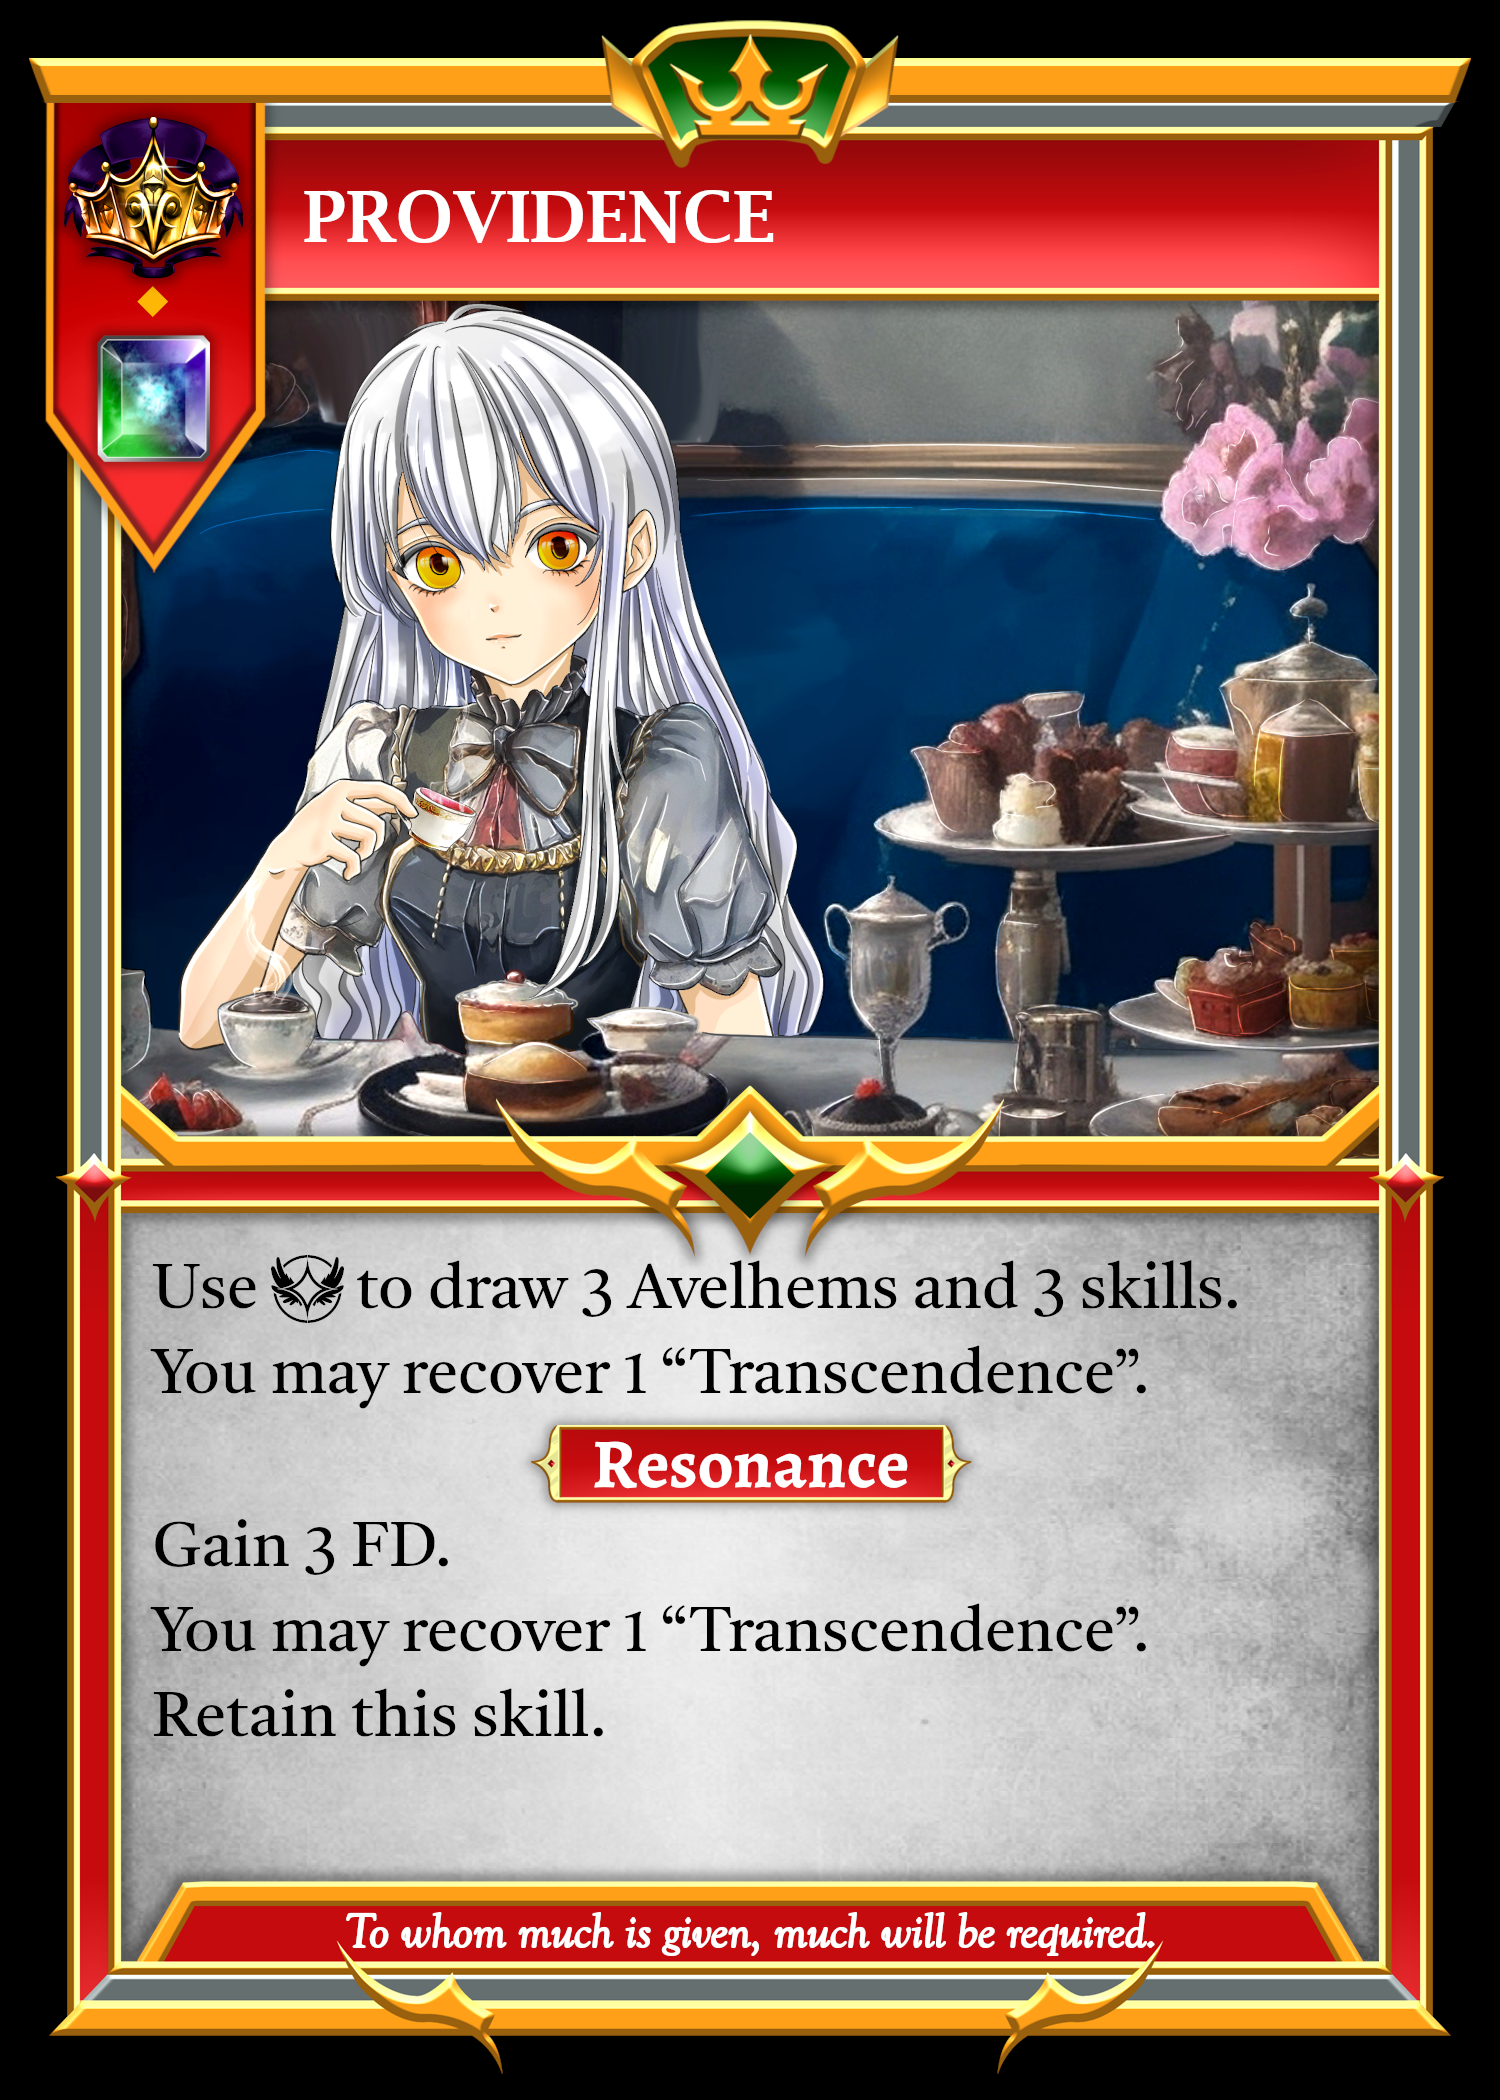
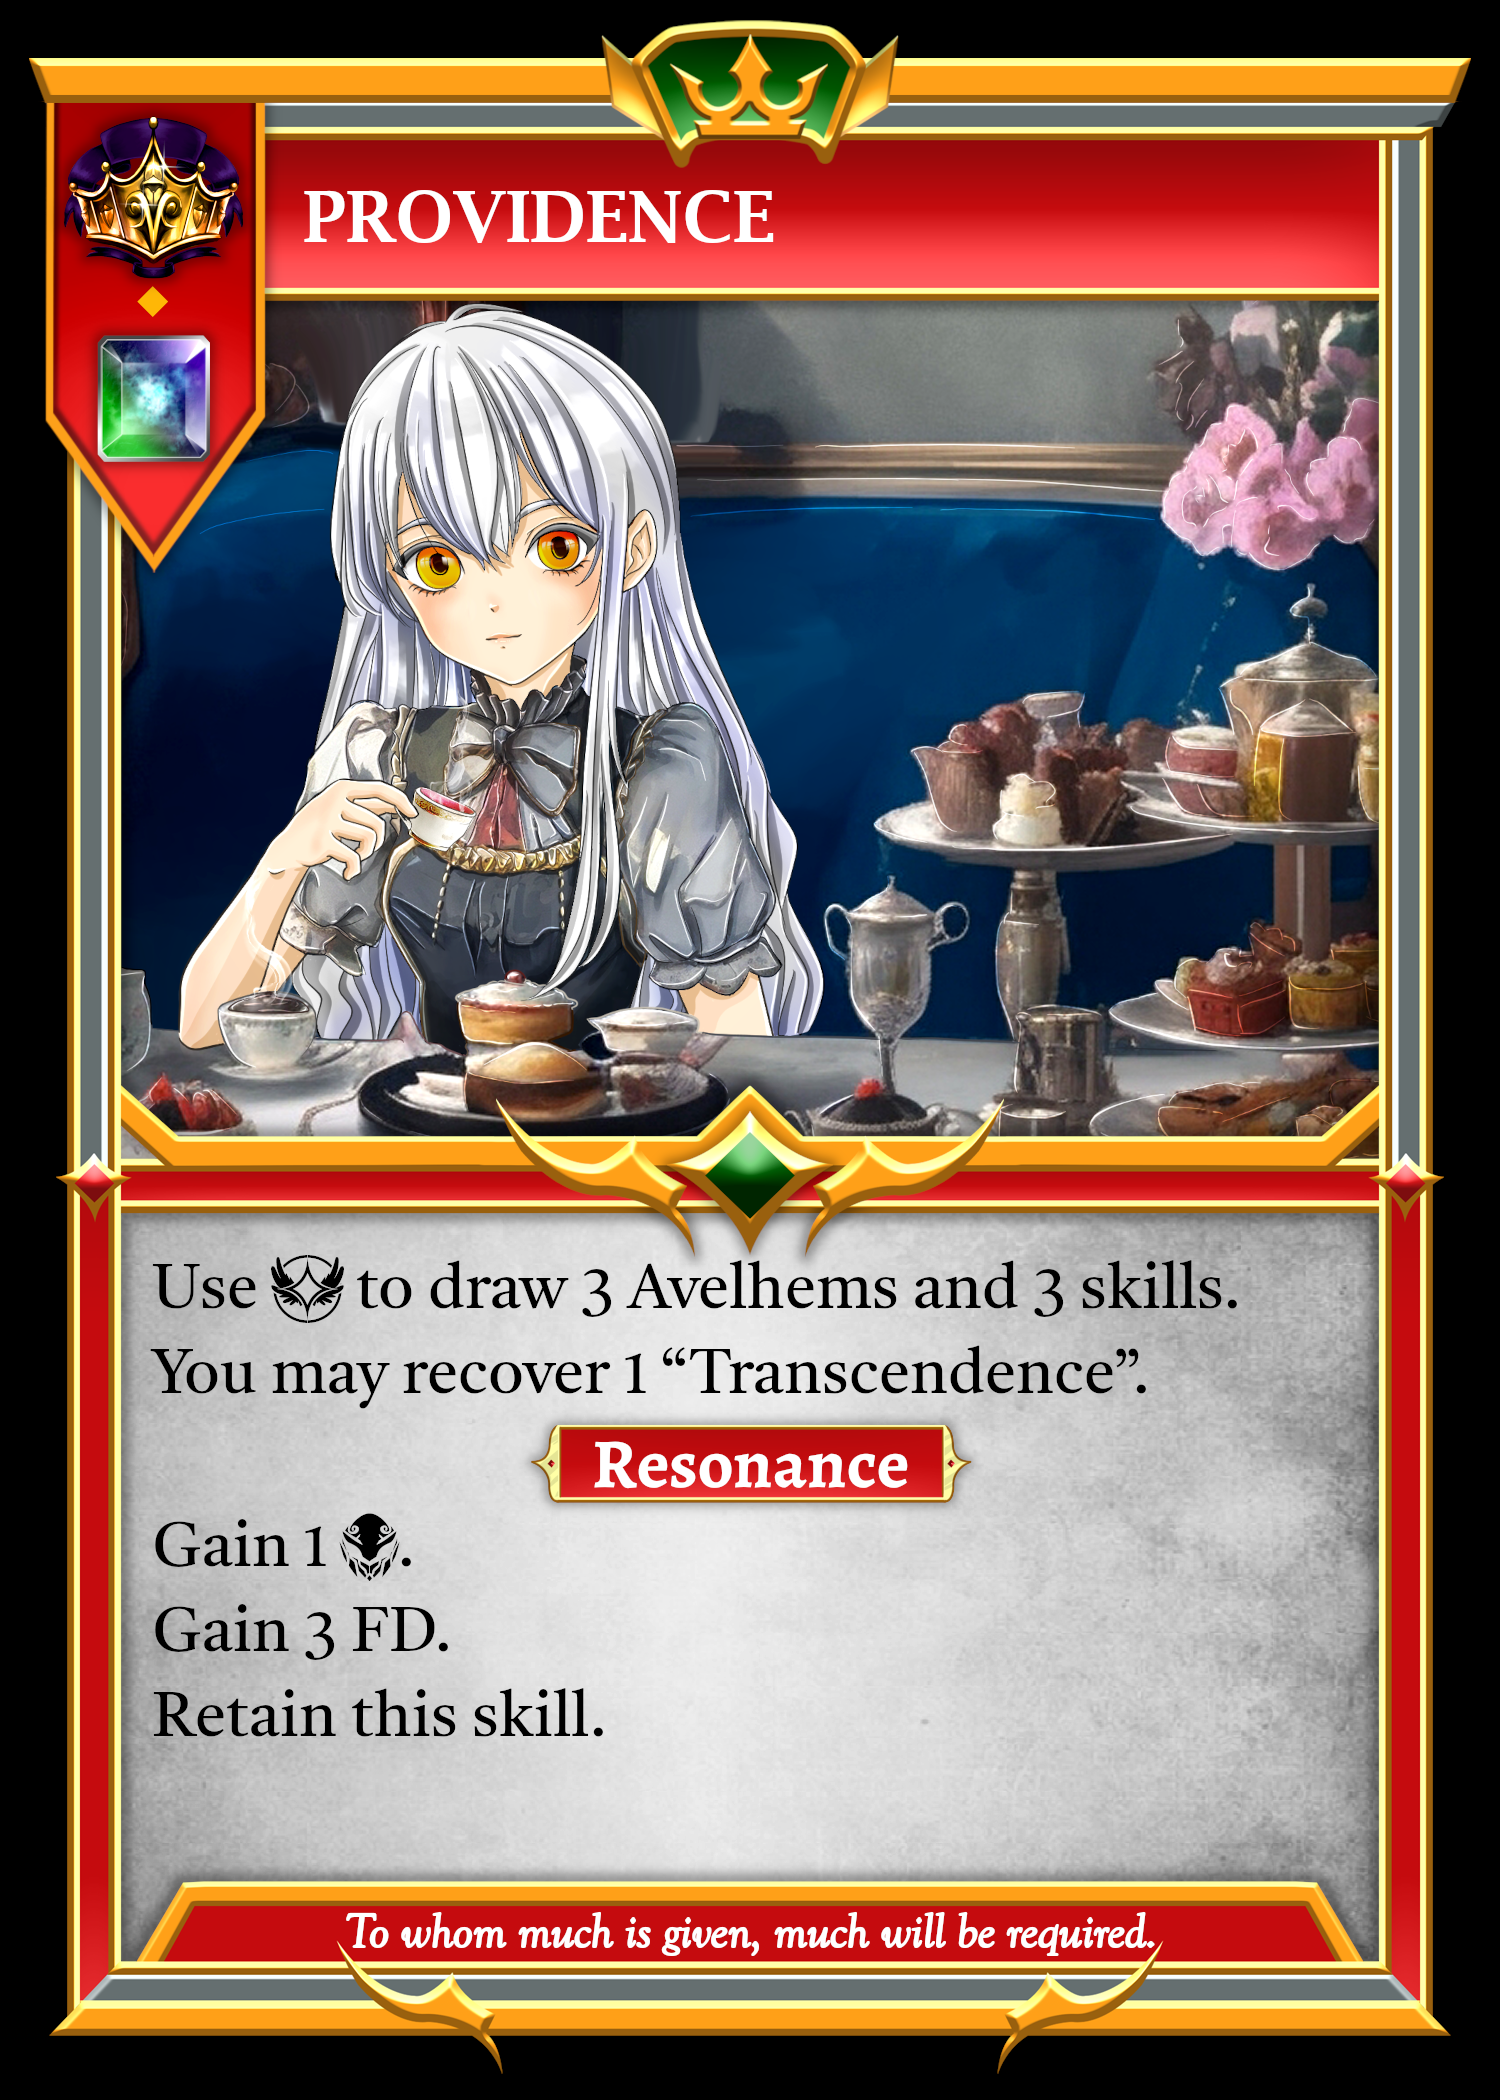
Added Providence.

Changed region(s): [[0.092, 0.7119, 0.3987, 0.8048], [0.4907, 0.7738, 0.736, 0.8048], [0.46, 0.7429, 0.4907, 0.7738]]

diff --git a/src/hooks/useSovereignSkillEffects.jsx b/src/hooks/useSovereignSkillEffects.jsx
@@ -279,6 +279,85 @@ export const useSovereignSkillEffects = () => {
     return newGameState;
   };
 
+  const providence1 = (resonator) => {
+    let newGameState = JSON.parse(JSON.stringify(localGameState));
+
+    //end "Activating Providence" resolution
+    newGameState.currentResolution.pop();
+
+    if (resonator) {
+      newGameState.currentResolution.push({
+        resolution: "Sovereign Resonant Skill",
+        resolution2: "ProvidenceR1",
+        player: self,
+      });
+    }
+
+    newGameState.currentResolution.push({
+      resolution: "Sovereign Resonant Skill",
+      resolution2: "Providence2",
+      player: self,
+    });
+
+    newGameState.currentResolution.push({
+      resolution: "Sovereign Resonant Skill",
+      resolution2: "Providence1",
+      //unit: null,
+      details: {
+        title: "Providence",
+        message: "Use an Invoke tactic to draw 3 Avelhems and 3 skills.",
+        restriction: ["Invoke"],
+        stock: 1,
+        reason: "Providence",
+        canSkip: false,
+        resonated: resonator ? "resonated" : null,
+      },
+    });
+
+    return newGameState;
+  };
+
+  const providence2 = () => {
+    let newGameState = JSON.parse(JSON.stringify(localGameState));
+
+    //end "Providence2" resolution
+    newGameState.currentResolution.pop();
+
+    if (newGameState[self].skillVestige.includes("SX-01")) {
+      newGameState.currentResolution.push({
+        resolution: "Sovereign Resonant Skill",
+        resolution2: "Providence Recovery",
+        player: self,
+        // unit: null,
+        details: {
+          reason: "Providence Recovery",
+          title: "Providence",
+          message: "You may recover 1 “Transcendence”.",
+          no: "Skip",
+          yes: "Recover",
+        },
+      });
+    }
+
+    return newGameState;
+  };
+
+  const providenceR1 = () => {
+    let newGameState = JSON.parse(JSON.stringify(localGameState));
+
+    //end "ProvidenceR1" resolution
+    newGameState.currentResolution.pop();
+
+    newGameState[self].fateDefiances = Math.min(
+      6,
+      newGameState[self].fateDefiances + 3
+    );
+
+    //Resonance also grants an advance tactic, but that will be handled via spending the invoke
+
+    return newGameState;
+  };
+
   const fatedRivalry1 = (unitInfo) => {
     let newGameState = JSON.parse(JSON.stringify(localGameState));
     let unit = newGameState[unitInfo.player].units[unitInfo.unitIndex];
@@ -440,6 +519,9 @@ export const useSovereignSkillEffects = () => {
     foreshadow2,
     ambidexterity1,
     ambidexterityR1,
+    providence1,
+    providence2,
+    providenceR1,
     fatedRivalry1,
     fatedRivalry2,
     matchMadeInHeaven1,

diff --git a/src/components/Board.jsx b/src/components/Board.jsx
@@ -220,6 +220,9 @@ const Board = (props) => {
     darkHalo1,
     ambidexterity1,
     ambidexterityR1,
+    providence1,
+    providence2,
+    providenceR1,
     fatedRivalry1,
     fatedRivalry2,
     matchMadeInHeaven1,
@@ -3146,6 +3149,71 @@ const Board = (props) => {
                   <>
                     {resolutionUpdateGameStateOnly(
                       ambidexterityR1(lastResolution.unit)
+                    )}
+                  </>
+                )}
+              </>
+            );
+
+          case "Activating Providence":
+            return (
+              <>
+                {self === lastResolution.player && (
+                  <>
+                    {resolutionUpdateGameStateOnly(
+                      providence1(lastResolution.resonator)
+                    )}
+                  </>
+                )}
+              </>
+            );
+
+          case "Providence1":
+            return (
+              <>
+                {self === localGameState.turnPlayer && !hideModal && (
+                  <TacticSelectionViaEffect
+                    details={lastResolution.details}
+                    updateFirebase={updateFirebase}
+                    hideOrRevealModale={hideOrRevealModale}
+                  />
+                )}
+              </>
+            );
+
+          case "Providence2":
+            return (
+              <>
+                {self === lastResolution.player && (
+                  <>
+                    {resolutionUpdateGameStateOnly(
+                      providence2(lastResolution.resonator)
+                    )}
+                  </>
+                )}
+              </>
+            );
+
+          case "Providence Recovery":
+            return (
+              <>
+                {self === lastResolution.player && !hideModal && (
+                  <YouMayNoYes
+                    details={lastResolution.details}
+                    updateFirebase={updateFirebase}
+                    hideOrRevealModale={hideOrRevealModale}
+                  />
+                )}
+              </>
+            );
+
+          case "ProvidenceR1":
+            return (
+              <>
+                {self === lastResolution.player && (
+                  <>
+                    {resolutionUpdateGameStateOnly(
+                      providenceR1(lastResolution.resonator)
                     )}
                   </>
                 )}

diff --git a/src/components/modals/TacticSelectionViaEffect.jsx b/src/components/modals/TacticSelectionViaEffect.jsx
@@ -10,14 +10,8 @@ const TacticSelectionViaEffect = (props) => {
   const { self } = useSelector((state) => state.teams);
   const dispatch = useDispatch();
 
-  const {
-    canMove,
-    canStrike,
-    drawSkill,
-    getTacticImage,
-    getVacantAdjacentZones,
-    getZonesInRange,
-  } = useRecurringEffects();
+  const { canMove, canStrike, drawAvelhem, drawSkill, getTacticImage } =
+    useRecurringEffects();
 
   let canUseTactic = [false, false];
 
@@ -105,7 +99,6 @@ const TacticSelectionViaEffect = (props) => {
             resolution2: "Diffusion2",
             unit: unit,
           });
-
           newGameState[props.unit.player].units[props.unit.unitIndex] = unit;
           break;
 
@@ -113,12 +106,25 @@ const TacticSelectionViaEffect = (props) => {
           newGameState = drawSkill(newGameState);
           newGameState = drawSkill(newGameState);
           newGameState = drawSkill(newGameState);
-
           break;
 
         case "Ambidexterity":
           newGameState.tactics[i].stock += 1;
           newGameState.tactics[i].face = "Invoke";
+          break;
+
+        case "Providence":
+          newGameState = drawSkill(newGameState);
+          newGameState = drawSkill(newGameState);
+          newGameState = drawSkill(newGameState);
+          newGameState = drawAvelhem(newGameState);
+          newGameState = drawAvelhem(newGameState);
+          newGameState = drawAvelhem(newGameState);
+
+          if (props.details.resonated === "resonated") {
+            newGameState.tactics[i].stock += 1;
+            newGameState.tactics[i].face = "Advance";
+          }
 
           break;
 

diff --git a/src/hooks/useRecurringEffects.jsx b/src/hooks/useRecurringEffects.jsx
@@ -1477,6 +1477,14 @@ export const useRecurringEffects = () => {
           "Activating Ambidexterity"
         );
 
+      case "SB-03":
+        return activateTemplate(
+          newGameState,
+          skill,
+          "Sovereign Resonant Skill",
+          "Activating Providence"
+        );
+
       default:
         return newGameState;
     }
@@ -1559,6 +1567,16 @@ export const useRecurringEffects = () => {
           "Activating Ambidexterity",
           resonator,
           "float"
+        );
+
+      case "SB-03":
+        return activateResonanceTemplate(
+          newGameState,
+          skill,
+          "Sovereign Resonant Skill",
+          "Activating Providence",
+          resonator,
+          "retain"
         );
 
       default:

diff --git a/src/components/modals/YouMayNoYes.jsx b/src/components/modals/YouMayNoYes.jsx
@@ -275,6 +275,17 @@ const YouMayNoYes = (props) => {
           },
         });
 
+      case "Providence Recovery":
+        newGameState.currentResolution.push({
+          resolution: "Recover Skill",
+          player: self,
+          restriction: ["SX-01"],
+          message: "Recover 1 “Transcendence”",
+          outcome: "Add",
+        });
+
+        break;
+
       default:
         break;
     }

diff --git a/src/components/modals/RecoverSkill.jsx b/src/components/modals/RecoverSkill.jsx
@@ -13,6 +13,9 @@ const RecoverSkill = (props) => {
   const { self, enemy } = useSelector((state) => state.teams);
   const dispatch = useDispatch();
 
+  console.log(localGameState[self].skillVestige);
+  console.log(localGameState[self].skillRepertoire);
+
   const { shuffleCards } = useRecurringEffects();
 
   const [selectedSkill, setSelectedSkill] = useState(null);

diff --git a/src/components/Piece.css b/src/components/Piece.css
@@ -12,6 +12,8 @@
         justify-content: center; /* horizontal alignment */
         display: flex;
         align-items: center; /* vertical alignment */
+
+        box-shadow: 0 0 5px rgba(0, 0, 0, 0.85);
        
 }
 
